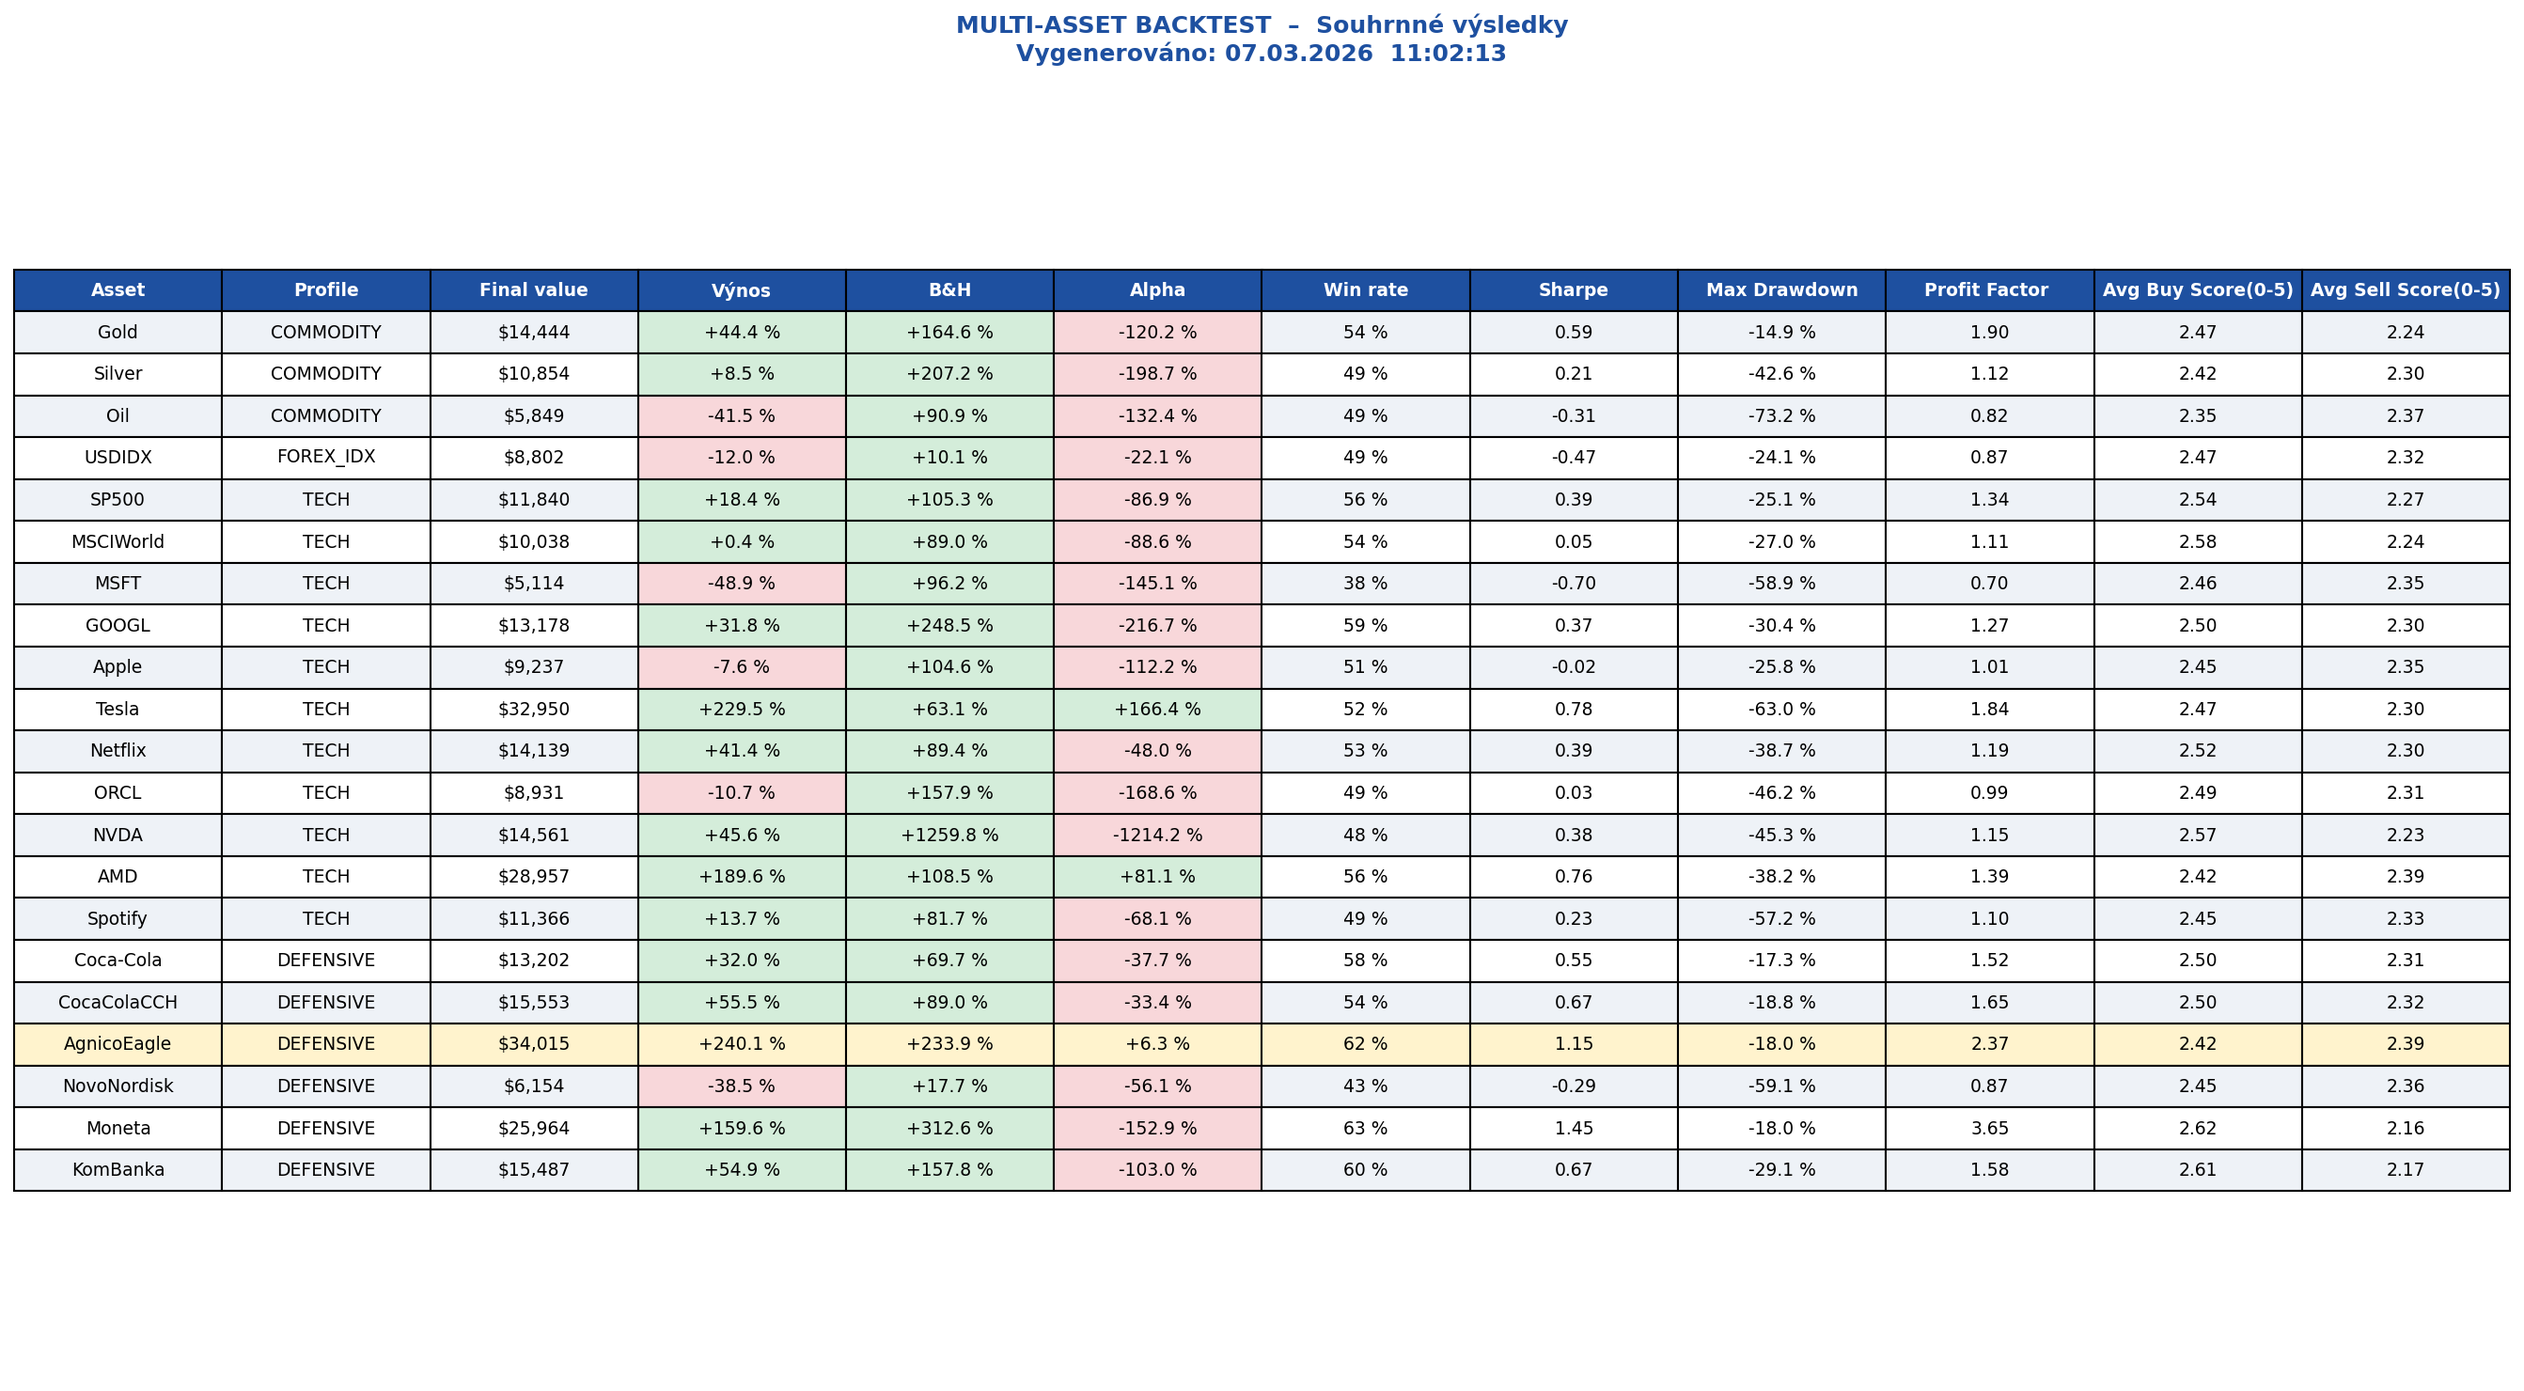
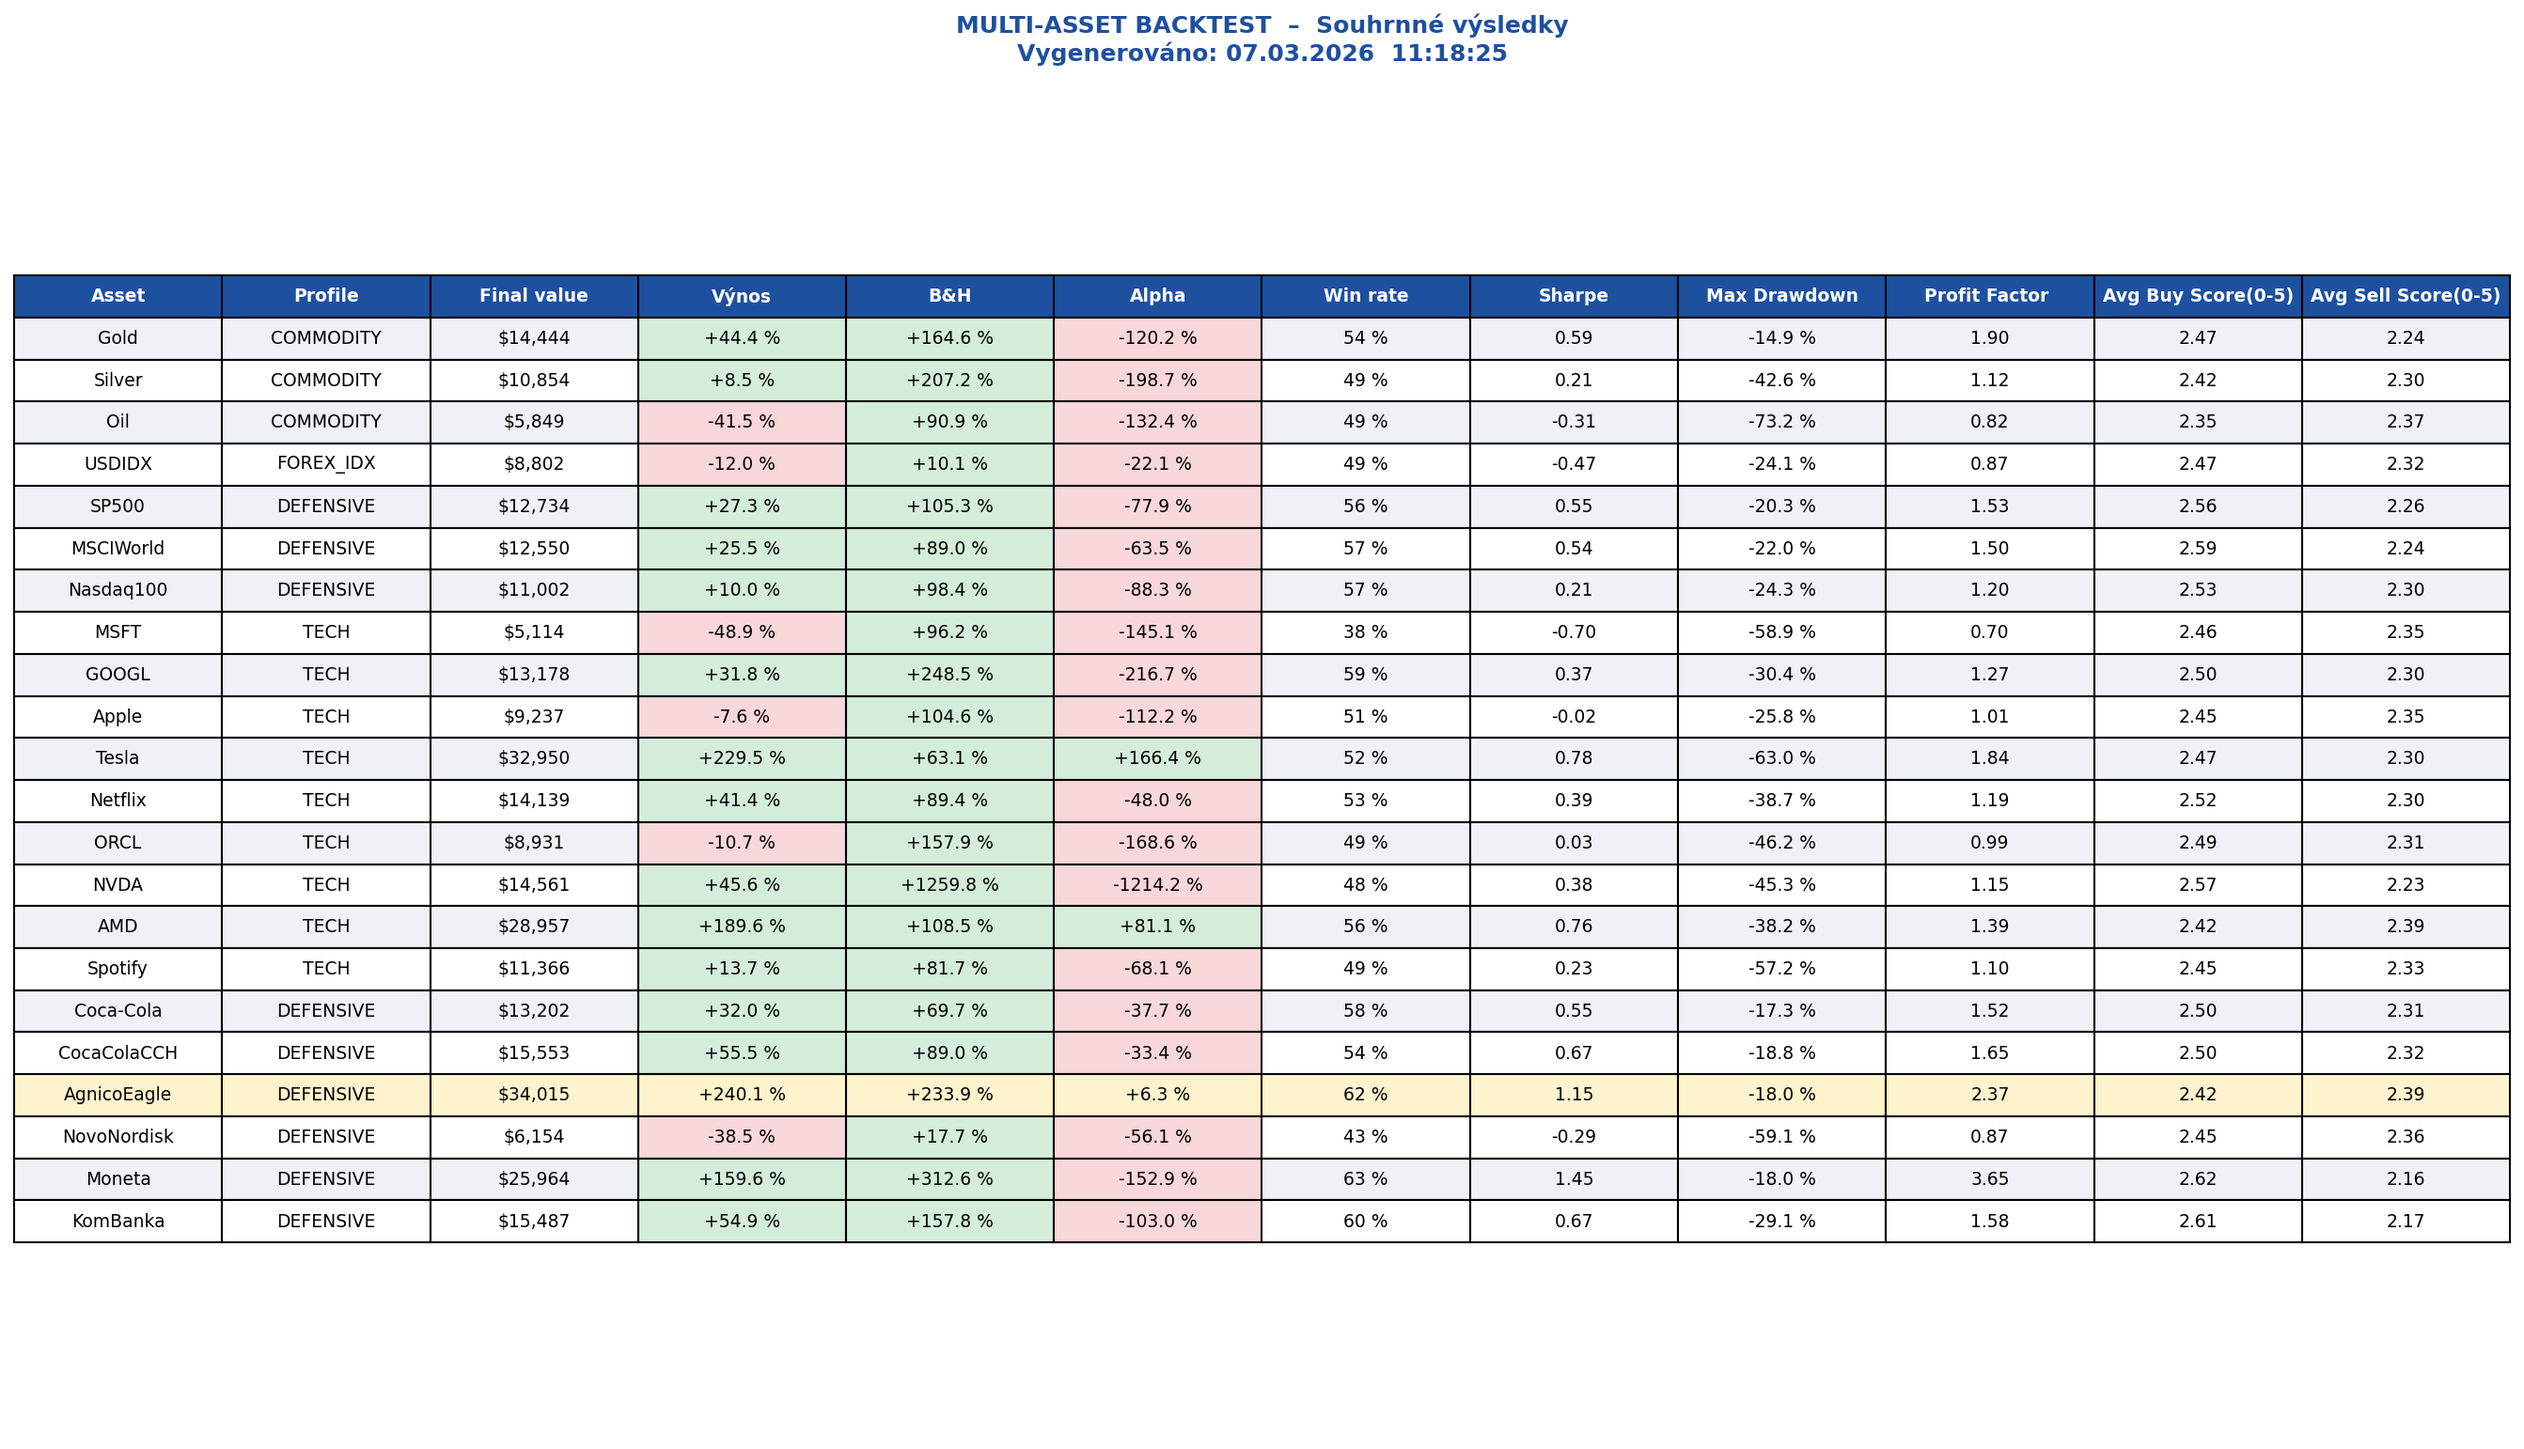
Readme update

Changed region(s): [[0.0, 0.1865, 1.0, 0.8703], [0.4019, 0.0, 0.6182, 0.0622]]

diff --git a/trading_backtest_script.py b/trading_backtest_script.py
@@ -26,7 +26,7 @@ ASSETS = {
     # Komodity & futures
     "Gold": "GC=F", "Silver": "SI=F", "Oil": "CL=F", "USDIDX": "DX-Y.NYB",
     # ETF
-    "SP500": "SXR8.DE", "MSCIWorld": "EUNL.DE",
+    "SP500": "SXR8.DE", "MSCIWorld": "EUNL.DE", "Nasdaq100": "CNDX.L",
     # Tech akcie
     "MSFT": "MSFT", "GOOGL": "GOOGL", "Apple": "AAPL", "Tesla": "TSLA", "Netflix": "NFLX", "ORCL": "ORCL", "NVDA": "NVDA", "AMD": "AMD", "Spotify": "SPOT",
     # Defenzivní akcie
@@ -53,22 +53,14 @@ SLIPPAGE = 0.0005 # 0.05 %
 #    pomalejší indikátory, konzervativní stop-loss.
 
 PROFILES = {
-    "COMMODITY": dict(MA_SHORT=30, MA_LONG=75,  RSI_PERIOD=14, RSI_OB=70, RSI_OS=30,
-                      BB_PERIOD=25, BB_STD=2.5, MACD_FAST=12, MACD_SLOW=30, MACD_SIGNAL=9,
-                      ATR_PERIOD=14, ATR_SL_MULT=2.5),
-    "FOREX_IDX": dict(MA_SHORT=40, MA_LONG=100, RSI_PERIOD=21, RSI_OB=65, RSI_OS=35,
-                      BB_PERIOD=30, BB_STD=1.8, MACD_FAST=14, MACD_SLOW=35, MACD_SIGNAL=9,
-                      ATR_PERIOD=21, ATR_SL_MULT=1.5),
-    "TECH":      dict(MA_SHORT=20, MA_LONG=50,  RSI_PERIOD=14, RSI_OB=70, RSI_OS=30,
-                      BB_PERIOD=20, BB_STD=2.0, MACD_FAST=12, MACD_SLOW=26, MACD_SIGNAL=9,
-                      ATR_PERIOD=14, ATR_SL_MULT=2.0),
-    "DEFENSIVE": dict(MA_SHORT=25, MA_LONG=60,  RSI_PERIOD=14, RSI_OB=65, RSI_OS=35,
-                      BB_PERIOD=20, BB_STD=1.8, MACD_FAST=12, MACD_SLOW=26, MACD_SIGNAL=9,
-                      ATR_PERIOD=14, ATR_SL_MULT=1.8),
+    "COMMODITY": dict(MA_SHORT=30, MA_LONG=75,  RSI_PERIOD=14, RSI_OB=70, RSI_OS=30, BB_PERIOD=25, BB_STD=2.5, MACD_FAST=12, MACD_SLOW=30, MACD_SIGNAL=9, ATR_PERIOD=14, ATR_SL_MULT=2.5),
+    "FOREX_IDX": dict(MA_SHORT=40, MA_LONG=100, RSI_PERIOD=21, RSI_OB=65, RSI_OS=35, BB_PERIOD=30, BB_STD=1.8, MACD_FAST=14, MACD_SLOW=35, MACD_SIGNAL=9, ATR_PERIOD=21, ATR_SL_MULT=1.5),
+    "TECH":      dict(MA_SHORT=20, MA_LONG=50,  RSI_PERIOD=14, RSI_OB=70, RSI_OS=30, BB_PERIOD=20, BB_STD=2.0, MACD_FAST=12, MACD_SLOW=26, MACD_SIGNAL=9, ATR_PERIOD=14, ATR_SL_MULT=2.0),
+    "DEFENSIVE": dict(MA_SHORT=25, MA_LONG=60,  RSI_PERIOD=14, RSI_OB=65, RSI_OS=35, BB_PERIOD=20, BB_STD=1.8, MACD_FAST=12, MACD_SLOW=26, MACD_SIGNAL=9, ATR_PERIOD=14, ATR_SL_MULT=1.8),
 }
 # Přiřazení profilu každému assetu
 ASSET_PROFILES = {
-    "Gold": "COMMODITY", "Silver": "COMMODITY", "Oil": "COMMODITY", "USDIDX": "FOREX_IDX", 
+    "Gold": "COMMODITY", "Silver": "COMMODITY", "Oil": "COMMODITY", "USDIDX": "FOREX_IDX", "SP500": "DEFENSIVE", "MSCIWorld": "DEFENSIVE", "Nasdaq100": "DEFENSIVE", 
     "MSFT": "TECH", "GOOGL": "TECH", "Apple": "TECH", "Tesla": "TECH", "Netflix": "TECH", "Spotify": "TECH", "ORCL": "TECH", "NVDA": "TECH", "AMD": "TECH", 
     "Coca-Cola": "DEFENSIVE", "CocaColaCCH": "DEFENSIVE", "NovoNordisk": "DEFENSIVE", "AgnicoEagle": "DEFENSIVE", "Moneta": "DEFENSIVE", "KomBanka": "DEFENSIVE",
 }
@@ -814,7 +806,7 @@ def main():
     best = max(results, key=lambda r: r["total_return"])
     print(f"\n Nejlepší asset: {best['asset']}" f"(výnos {best['total_return']:+.1f} %)")
     #print_yearly_breakdown(results)
-    print_current_signals(results)
+    #print_current_signals(results)
     export_signals_png(results)
     export_table_png(table, headers, results)
     # Souhrnný srovnávací graf

diff --git a/README.md b/README.md
@@ -109,6 +109,26 @@ kde  α = 2 / (perioda + 1)
 **Signál:**
 - `EMA_short > EMA_long` → krátkodobý trend roste nad dlouhodobý → **BUY skóre**
 - `EMA_short < EMA_long` → krátkodobý trend klesl pod dlouhodobý → **SELL skóre**
+  
+**SMA 20 (krátkodobý trend):**
+
+Průměr posledních 20 obchodních dní = přibližně 1 měsíc. Říká ti, jak si vede cena v krátkodobém horizontu.
+- Cena nad SMA20 → krátkodobý momentum je bullish, trh roste
+- Cena pod SMA20 → krátkodobý momentum je bearish, trh klesá
+- SMA20 funguje jako dynamická podpora/odpor – cena se k němu často vrací
+
+**SMA 50 (střednědobý trend):**
+
+Průměr posledních 50 obchodních dní = přibližně 2.5 měsíce. Sledují ho hlavně institucionální investoři.
+- Cena nad SMA50 → střednědobý trend je zdravý
+- Cena pod SMA50 → trh je ve střednědobém downtrend
+- Prolomení SMA50 je považováno za silnější signál než SMA20
+
+**Golden Cross a Death Cross:**
+
+To je to nejdůležitější na kombinaci SMA20/SMA50:
+- Golden Cross:  SMA20 překříží SMA50 ZDOLA NAHORU  → silný BUY signál
+- Death Cross:   SMA20 překříží SMA50 SHORA DOLŮ    → silný SELL signál
 
 ### 3.2 RSI – Relative Strength Index
 **RSI** měří sílu a hybnost cenových pohybů na škále 0–100. Porovnává průměrné zisky a průměrné ztráty za sledované období a identifikuje zóny překoupenosti nebo přeprodanosti.
@@ -129,6 +149,12 @@ kde  RS = průměrný zisk za N dní / průměrná ztráta za N dní
 - `RSI > 50` → cena roste rychle, hybnost může slábnout → **SELL skóre**
 
 > Poznámka: hranice 70/30 slouží pro vizualizaci v grafu, strategie používá střední linii 50.
+>
+**Co hledat:**
+- RSI klesne pod 30 → trh je přeprodaný, cena klesla příliš rychle → potenciální odraz nahoru → hledáš BUY
+- RSI vystoupí nad 70 → trh je překoupený, cena rostla příliš rychle → potenciální obrat dolů → hledáš SELL
+- RSI překříží linku 50 zdola nahoru → potvrzení rostoucího trendu → BUY signál
+- RSI překříží linku 50 shora dolů → potvrzení klesajícího trendu → SELL signál
 
 ### 3.3 Bollinger Bands
 **Bollingerova pásma** se skládají ze tří čar: středového klouzavého průměru (SMA) a dvou pásem vzdálených N násobků směrodatné odchylky (σ). Pásma se rozšiřují při vysoké volatilitě a zužují při nízké.
@@ -147,6 +173,14 @@ BB_pct   = (cena − BB_lower) / (BB_upper − BB_lower)   →  hodnota 0–1
 **Signál:**
 - `BB_pct < 0.4` → cena blízko dolního pásma = potenciálně podhodnocená → **BUY skóre**
 - `BB_pct > 0.6` → cena blízko horního pásma = potenciálně předražená → **SELL skóre**
+
+**Co hledat:**
+- Cena se dotkne dolního pásma → statisticky podhodnocená → potenciální BUY
+- Cena se dotkne horního pásma → statisticky předražená → potenciální SELL
+- Pásma se zužují (squeeze) → trh je klidný, hromadí se energie → brzy přijde velký pohyb, ale nevíš jakým směrem
+- Pásma se rozšiřují → trh je ve volatile fázi, trend je silný
+- Cena "jede podél horního pásma" → velmi silný uptend, nesell příliš brzy
+- BB% (ve skriptu) = 0 znamená cena na dolním pásmu, 1 = na horním pásmu, 0.5 = uprostřed
 
 ### 3.4 MACD
 **MACD** (Moving Average Convergence/Divergence) měří hybnost a sílu trendu porovnáním dvou exponenciálních klouzavých průměrů.
@@ -167,6 +201,16 @@ Histogram = MACD − Signal
 - `MACD > Signal` → rostoucí hybnost → **BUY skóre**
 - `MACD < Signal` → klesající hybnost → **SELL skóre**
 
+**Co hledat:**
+- MACD překříží Signal zdola nahoru → BUY signál (hybnost roste)
+- MACD překříží Signal shora dolů → SELL signál (hybnost klesá)
+- Histogram roste → trend sílí, drž pozici
+- Histogram se zmenšuje → trend slábne, připrav se na výstup
+- MACD nad nulou → celkový trend je bullish
+- MACD pod nulou → celkový trend je bearish
+
+Zlaté pravidlo: MACD je lagging indikátor – potvrzuje trend, který už začal. Nikdy nebude signalizovat úplně na vrcholu ani dně, ale filtruje falešné pohyby.
+
 ### 3.5 ATR – Average True Range
 **ATR** měří průměrnou denní volatilitu (rozkmit ceny). Na rozdíl od ostatních indikátorů ATR **neříká směr** – říká, o kolik se cena typicky pohybuje za den. Ve skriptu slouží primárně pro nastavení dynamického stop-lossu.
 
@@ -181,9 +225,11 @@ Stop-Loss = vstupní_cena − ATR_SL_MULT × ATR
 | `ATR_PERIOD` | `14` | Počet dní pro průměrování True Range. Standardní hodnota doporučená tvůrcem Wilderem. |
 | `ATR_SL_MULT` | `2.0` | Multiplikátor ATR pro stop-loss. Hodnota 2 = stop-loss je 2× průměrný denní rozkmit pod vstupem. Nižší → agresivnější (více stop-lossů). Vyšší → konzervativnější. |
 
-**Interpretace:**
-- Vysoký ATR → velká volatilita → stop-loss musí být vzdálenější, aby ho šum nevyvolal
-- Nízký ATR → klidný trh → stop-loss může být blíže vstupní ceně
+**Co hledat:**
+- Vysoký ATR → trh je nervózní, velké pohyby → stop-loss musí být vzdálenější, jinak tě vyhodí šum
+- Nízký ATR → klidný trh → stop-loss může být blíže na vstupní ceně, risk je menší
+- ATR náhle skočí nahoru → přišla velká zpráva (earnings, FED, geopolitika) → pozor na zvýšené riziko
+- ATR dlouhodobě klesá → trh usíná, blíží se velký pohyb (podobně jako BB squeeze)
 
 ## 4. Kombinovaná obchodní strategie
 Klíčovým rysem je, že **žádný indikátor sám o sobě nevydá signál**. Každý indikátor přispěje ke skóre BUY nebo SELL, a obchod nastane až tehdy, když **alespoň 3 ze 5 indikátorů souhlasí**. Tím se výrazně snižuje počet falešných signálů.
